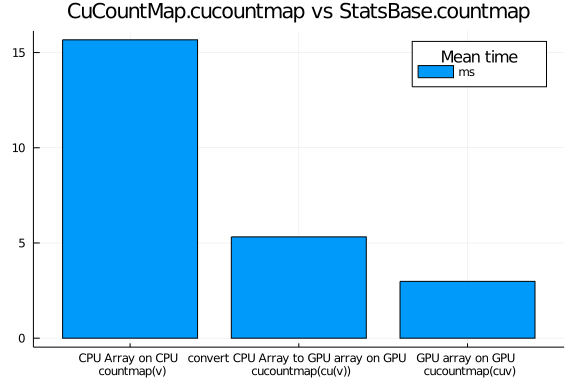
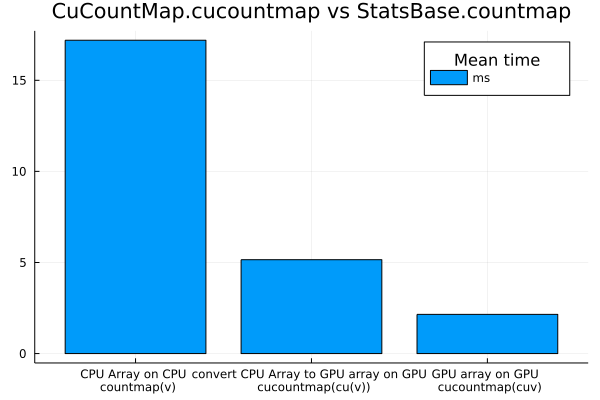
updated to cuda 3

Changed region(s): [[0.0, 0.0938, 0.9688, 1.0], [0.0625, 0.0, 0.9688, 0.0625], [0.6875, 0.0938, 0.9688, 0.25]]

diff --git a/README.md b/README.md
@@ -4,8 +4,7 @@
 
 ### Usage
 
-````julia
-
+```julia
 using CuCountMap
 
 v = rand(Int16, 1_000_000)
@@ -16,32 +15,31 @@ using CUDA: cu
 
 cuv = cu(v)
 countmap(cuv) # StatsBase.countmap is overloaded for CuArrays
-````
+```
 
-
-````
-Dict{Int16,Int64} with 65536 entries:
-  -13838 => 17
-  22035  => 12
-  -15285 => 19
-  -13843 => 12
-  -18190 => 19
-  -20309 => 11
-  19698  => 11
-  -8633  => 20
-  -17455 => 12
-  -16936 => 22
-  29981  => 14
-  -20376 => 15
-  7237   => 20
-  -27415 => 10
-  17959  => 17
-  27248  => 17
-  -32758 => 17
-  -13400 => 17
-  5784   => 10
+```
+Dict{Int16, Int64} with 65536 entries:
+  -23731 => 18
+  29965  => 13
+  30270  => 14
+  1703   => 17
+  7685   => 16
+  -7029  => 16
+  3406   => 12
+  -30706 => 18
+  28804  => 10
+  27640  => 14
+  -17985 => 18
+  -28261 => 12
+  -2851  => 19
+  2015   => 12
+  -25023 => 15
+  31375  => 16
+  -13631 => 15
+  -8219  => 19
+  28165  => 14
   ⋮      => ⋮
-````
+```
 
 
 
@@ -50,8 +48,7 @@ Dict{Int16,Int64} with 65536 entries:
 
 ### Example & Benchmarks
 
-````julia
-
+```julia
 using CUDA
 using CuCountMap
 using StatsBase: countmap
@@ -61,67 +58,63 @@ v = rand(Int16, 10_000_000);
 using BenchmarkTools
 
 cpu_to_gpu_benchmark = @benchmark gpu_countmap = cucountmap($v)
-````
+```
 
+```
+BenchmarkTools.Trial: 954 samples with 1 evaluation.
+ Range (min … max):  4.374 ms … 13.528 ms  ┊ GC (min … max): 0.00% … 52.22%
+ Time  (median):     4.814 ms              ┊ GC (median):    0.00%
+ Time  (mean ± σ):   5.151 ms ±  1.145 ms  ┊ GC (mean ± σ):  3.24% ±  8.90%
 
-````
-BenchmarkTools.Trial: 
-  memory estimate:  4.17 MiB
-  allocs estimate:  76
-  --------------
-  minimum time:     4.751 ms (0.00% GC)
-  median time:      4.974 ms (0.00% GC)
-  mean time:        5.320 ms (3.50% GC)
-  maximum time:     14.950 ms (55.27% GC)
-  --------------
-  samples:          940
-  evals/sample:     1
-````
+   ██                                                         
+  ▅██▇▇▇▆▅▄▄▄▄▃▃▃▃▃▂▂▂▂▁▂▂▂▁▁▁▂▁▁▁▁▁▁▁▁▁▁▁▁▁▁▁▁▁▁▁▁▁▁▁▂▂▂▂▂▂ ▃
+  4.37 ms        Histogram: frequency by time        11.3 ms <
+
+ Memory estimate: 2.38 MiB, allocs estimate: 103.
+```
 
 
 
-````julia
-
+```julia
 cpu_to_cpu_benchmark = @benchmark cpu_countmap = countmap($v)
-````
+```
+
+```
+BenchmarkTools.Trial: 291 samples with 1 evaluation.
+ Range (min … max):  15.864 ms … 26.632 ms  ┊ GC (min … max): 0.00% … 18.12
+%
+ Time  (median):     16.843 ms              ┊ GC (median):    0.00%
+ Time  (mean ± σ):   17.195 ms ±  1.444 ms  ┊ GC (mean ± σ):  1.72% ±  5.17
+%
+
+      ▃ ▅██▆▄▁                                                 
+  ▃█▇▆████████▇▇▄▃▃▂▂▂▂▁▁▁▁▂▁▂▁▂▂▁▁▁▁▂▂▁▂▁▄▁▁▁▂▁▁▂▁▂▂▁▁▁▄▁▃▁▂ ▃
+  15.9 ms         Histogram: frequency by time        22.6 ms <
+
+ Memory estimate: 4.17 MiB, allocs estimate: 37.
+```
 
 
-````
-BenchmarkTools.Trial: 
-  memory estimate:  4.17 MiB
-  allocs estimate:  37
-  --------------
-  minimum time:     14.915 ms (0.00% GC)
-  median time:      15.344 ms (0.00% GC)
-  mean time:        15.670 ms (1.06% GC)
-  maximum time:     22.093 ms (28.90% GC)
-  --------------
-  samples:          320
-  evals/sample:     1
-````
 
-
-
-````julia
-
+```julia
 cuv = CUDA.cu(v)
 gpu_to_gpu_benchmark = @benchmark gpu_countmap2 = countmap(cuv)
-````
+```
 
+```
+BenchmarkTools.Trial: 2242 samples with 1 evaluation.
+ Range (min … max):  1.799 ms …   9.377 ms  ┊ GC (min … max): 0.00% … 73.02
+%
+ Time  (median):     1.995 ms               ┊ GC (median):    0.00%
+ Time  (mean ± σ):   2.150 ms ± 643.115 μs  ┊ GC (mean ± σ):  3.50% ±  8.43
+%
 
-````
-BenchmarkTools.Trial: 
-  memory estimate:  4.17 MiB
-  allocs estimate:  64
-  --------------
-  minimum time:     2.512 ms (0.00% GC)
-  median time:      2.692 ms (0.00% GC)
-  mean time:        2.984 ms (5.91% GC)
-  maximum time:     17.421 ms (73.12% GC)
-  --------------
-  samples:          1675
-  evals/sample:     1
-````
+   █▃                                                          
+  ▄███▄▅▅▄▄▃▃▂▂▂▂▂▂▂▁▁▂▂▁▁▁▂▁▁▁▁▁▁▂▁▁▁▁▁▁▁▁▁▁▁▁▁▁▁▁▁▁▁▁▁▂▂▂▂▂ ▂
+  1.8 ms          Histogram: frequency by time        5.82 ms <
+
+ Memory estimate: 2.38 MiB, allocs estimate: 134.
+```
 
 
 
@@ -129,8 +122,7 @@ BenchmarkTools.Trial:
 
 #### Benchmark Plot
 
-````julia
-
+```julia
 using Plots
 using Statistics: mean
 
@@ -143,7 +135,11 @@ plot(
 [cpu_to_cpu, cpu_to_gpu, gpu_to_gpu],
 seriestypes = :bar, title="CuCountMap.cucountmap vs StatsBase.countmap", label="ms",
 legendtitle="Mean time")
-````
+```
+
+```
+[ Info: Precompiling Plots [91a5bcdd-55d7-5caf-9e0b-520d859cae80]
+```
 
 
 ![](figures/README_5_1.png)
